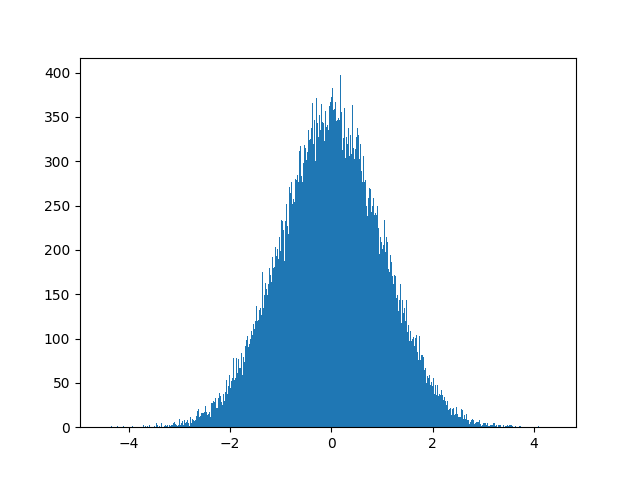
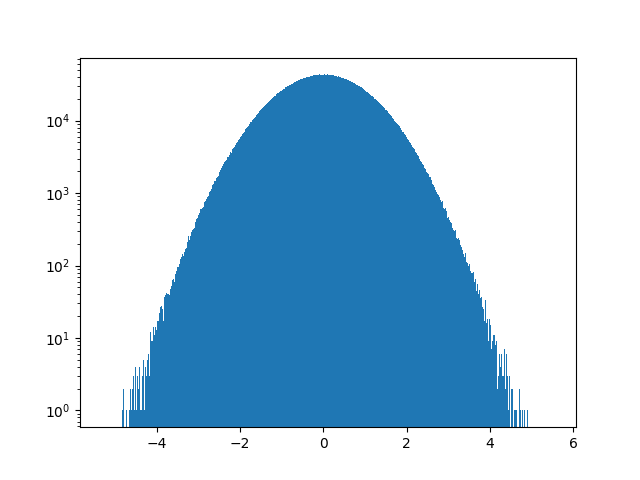
haha

diff --git a/sumOfUniforms.py b/sumOfUniforms.py
@@ -7,7 +7,7 @@ import math
 import tensorflow as tf
 import matplotlib.pyplot as plt
 
-sampleSize = tf.TensorShape(100000)
+sampleSize = tf.TensorShape(10000000)
 numUniforms = 12  #The number of uniforms to sum
 uniformSum = tf.zeros(sampleSize)
 for _ in range(numUniforms):
@@ -15,4 +15,5 @@ for _ in range(numUniforms):
 uniformSum = uniformSum - (numUniforms/2)
 
 plt.hist(uniformSum.numpy(), bins=1000)
+plt.yscale('log')
 plt.savefig(f"results/{os.path.basename(__file__)}.png")

diff --git a/boxMullerTransform.py b/boxMullerTransform.py
@@ -7,10 +7,11 @@ import math
 import tensorflow as tf
 import matplotlib.pyplot as plt
 
-sampleSize = tf.TensorShape(100000)
+sampleSize = tf.TensorShape(10000000)
 u1 = tf.random.uniform(sampleSize, dtype=tf.float32)
 u2 = tf.random.uniform(sampleSize, dtype=tf.float32)
 z0 = tf.sqrt(-2*tf.math.log(u1))*tf.cos(2*math.pi*u2)
 
 plt.hist(z0.numpy(), bins=1000)
+plt.yscale('log')
 plt.savefig(f"results/{os.path.basename(__file__)}.png")

diff --git a/tfRandomTruncatedNormal.py b/tfRandomTruncatedNormal.py
@@ -1,4 +1,5 @@
-#Control experiment, uses the forbidden op: tf.random.normal
+
+#Investigating truncated normal
 
 import os
 import math
@@ -6,7 +7,7 @@ import tensorflow as tf
 import matplotlib.pyplot as plt
 
 sampleSize = tf.TensorShape(10000000)
-sample = tf.random.normal(sampleSize)
+sample = tf.random.truncated_normal(sampleSize)
 
 plt.hist(sample.numpy(), bins=1000)
 plt.yscale('log')

diff --git a/zigguratAlgorithm.py b/zigguratAlgorithm.py
@@ -1,0 +1,2 @@
+
+#I will attempt to implement this hellish beast when i have 3 hours free
